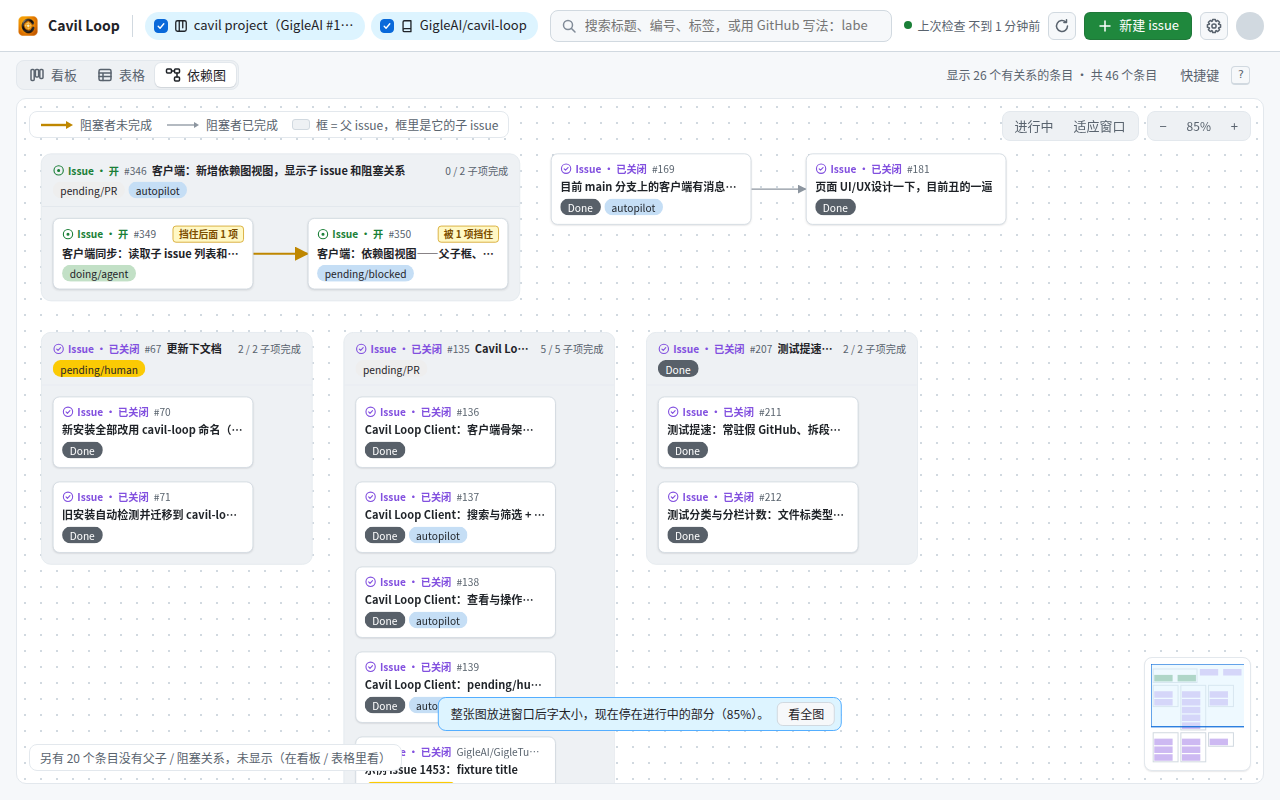
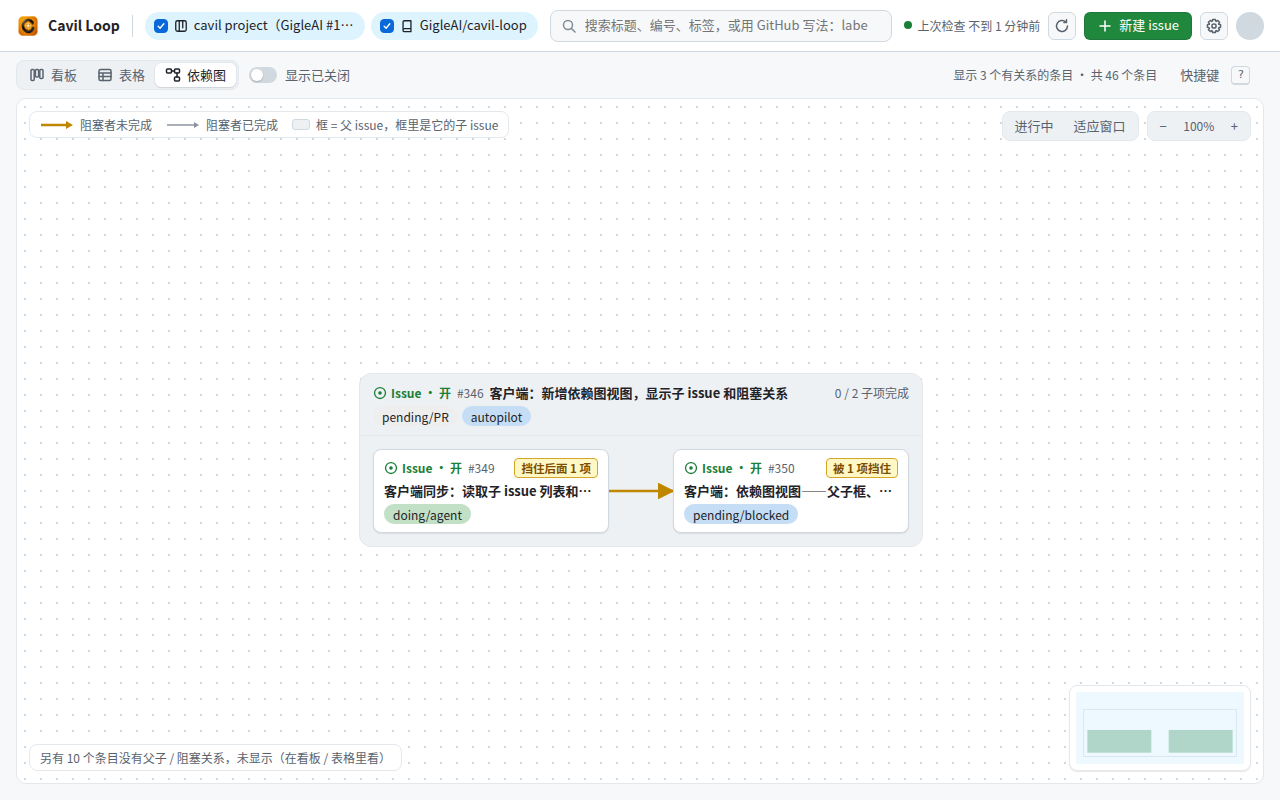
docs(client): user guide describes the "显示已关闭" switch and the read scope; screenshots re-rendered (#464)
Both guides still told people the default search hid finished items and that
clearing the box shows everything; #462 and #464 left the in-progress list.
PR #500 review round 2.

diff --git a/client/src/renderer/BoardView.tsx b/client/src/renderer/BoardView.tsx
@@ -1014,7 +1014,7 @@ export function BoardView({
           title={
             statesInSearch
               ? '搜索框已经指定了开 / 关状态（is:open、is:closed、is:merged），以搜索框为准'
-              : `打开后连已关闭、已合并的条目一起显示。只限已读到的条目：仓库来源读全部开着的和近 14 天更新过的已关闭条目，Project 来源读看板上的全部条目。\n看板、表格、依赖图，以及顶栏四个数点亮时，各记一份。`
+              : `打开后连已关闭、已合并的条目一起显示。只限已读到的条目：仓库来源读全部开着的、近 14 天更新过的和挂着「等人处理的标签」的已关闭条目，Project 来源读看板上的全部条目。\n看板、表格、依赖图，以及顶栏四个数点亮时，各记一份。`
           }
         >
           <input

diff --git a/client/RELEASE_NOTES.md b/client/RELEASE_NOTES.md
@@ -5,7 +5,7 @@
 ### 这一版（0.5）
 
 - **Mac 上切看板 / 表格 / 依赖图改成 ⌃⌘1 / ⌃⌘2 / ⌃⌘3**（GitHub#492）：同时按住 Control 和 Command 再按数字。按钮提示和快捷键一览在 Mac 上只写这三个；以前的 ⌥⌘1/2/3、⌘⇧1/2/3 照样能用，只是不再写出来。Mac 上 ⌃⌘ 一起按住算单独一组键：以前按 ⌃⌘1 会被当成 ⌘1 切到第 1 个标签页，在讨论区里按也一样，现在都不会了；⌘1 … ⌘9、⌘R 照旧。Windows / Linux 不变，仍是 Ctrl+Shift+1/2/3。macOS 上还没在真机上按过（自动测试在 Linux 窗口里模拟 Mac 的按键）。
-- **搜索框默认留空，视图栏加「显示已关闭」开关，每个视图各记一份**（GitHub#464）：新装的客户端搜索框不再预先写 `-Status:done -label:Done`。视图栏「视图设置」左边多一个「显示已关闭」开关，默认关，只显示开着的 issue / PR；打开后连已关闭、已合并的一起显示。开关按视图分别记：看板、表格、依赖图各一份，顶栏每个数点亮时也各一份（包括设置里自己加的数）——「等人处理」连已关闭的也数，它的开关一开始就是开的，点开就能看到已关闭但还挂着 `pending/human` 的条目，想只看开着的就单独关掉它；其他数一开始只列开着的；切回看板后看板的开关保持原样；重开 App 都还在。点亮某个数时搜索框写的是 `label:"pending/human"` 这样的句子，不再带 `is:open`。搜索框里自己写了 `is:open` / `is:closed` / `is:merged` 时以搜索框为准，开关变灰。依赖图关着开关时，开着的条目要用到的已关闭父项、前置、子项仍淡显画出。导入 Project 网页视图时，只用来挡已完成条目的写法（`-status:done`、`-label:done`、`is:open`）不再放进搜索框，其余照导入；升级时搜索框整句只由这几个写法组成的会被清空，原来点亮的数照样亮着，夹着其他写法的不动。注意：原来按 Project 的 Done 列 / `Done` 标签挡，现在按开 / 关状态挡，开着却已拖进 Done 列的条目会重新出现，想继续挡就在搜索框写 `-status:done`。开关只管已读到的条目：仓库来源仍只读全部开着的和近 14 天更新过的。
+- **搜索框默认留空，视图栏加「显示已关闭」开关，每个视图各记一份**（GitHub#464）：新装的客户端搜索框不再预先写 `-Status:done -label:Done`。视图栏「视图设置」左边多一个「显示已关闭」开关，默认关，只显示开着的 issue / PR；打开后连已关闭、已合并的一起显示。开关按视图分别记：看板、表格、依赖图各一份，顶栏每个数点亮时也各一份（包括设置里自己加的数）——「等人处理」连已关闭的也数，它的开关一开始就是开的，点开就能看到已关闭但还挂着 `pending/human` 的条目，想只看开着的就单独关掉它；其他数一开始只列开着的；切回看板后看板的开关保持原样；重开 App 都还在。点亮某个数时搜索框写的是 `label:"pending/human"` 这样的句子，不再带 `is:open`。搜索框里自己写了 `is:open` / `is:closed` / `is:merged` 时以搜索框为准，开关变灰。依赖图关着开关时，开着的条目要用到的已关闭父项、前置、子项仍淡显画出。导入 Project 网页视图时，只用来挡已完成条目的写法（`-status:done`、`-label:done`、`is:open`）不再放进搜索框，其余照导入；升级时搜索框整句只由这几个写法组成的会被清空，原来点亮的数照样亮着，夹着其他写法的不动。注意：原来按 Project 的 Done 列 / `Done` 标签挡，现在按开 / 关状态挡，开着却已拖进 Done 列的条目会重新出现，想继续挡就在搜索框写 `-status:done`。开关只管已读到的条目：仓库来源仍只读全部开着的、近 14 天更新过的和挂着 `pending/human` 的已关闭条目。
 - **单击条目回到右侧浮窗，标签页要的时候才开；没开标签页时不显示标签栏；「正在运行」不再转圈；⌘1…⌘9 切标签页**（GitHub#442）：点看板卡片、表格行、依赖图的框，和标签页上线前一样在看板右侧的浮窗里打开（左边缘可拖宽，点外面、按 Esc 或「收起 ›」收起，回复框里有字时点外面和 Esc 都不收起）；系统通知、刚建好的 issue、提示条里的「打开 / 重试 / 去回复」也一样。按住 ⌘ 点（Windows / Linux 上是 Ctrl）开成标签页并切过去，鼠标中键开成后台标签页；右键卡片 / 表格行 / 依赖图的框弹出菜单：在浮窗打开、在新标签页打开、在后台标签页打开、在 GitHub 网页上看。已经开着标签页的条目单击直接切到那个标签页。浮窗属于首页：切到别的标签页再回来，浮窗还在，没发出的字也在；浮窗正开着的那一条被开成标签页时，字跟着进标签页。一个标签页都没开时整条标签栏不显示，关掉最后一个就消失。标签上「agent 正在处理」的图标换成静止的蓝底小机器人（和「等待人处理」的黄底人像成对），原来的转圈看着像页面还在加载。⌘1 … ⌘9 改成切到第几个标签页（⌘1 是首页，⌘9 是最后一个）；看板 / 表格 / 依赖图挪到 ⌘⇧1 / ⌘⇧2 / ⌘⇧3，Mac 上另有 ⌥⌘1 / ⌥⌘2 / ⌥⌘3——Mac 默认把 ⌘⇧3 留给整屏截图，窗口收不到。首页而浮窗开着时 ⌘W 收起浮窗。详情标签页在前时 ⌘R 重新读这一条（同详情的刷新按钮，讨论区、回复框里按也一样）；首页上 ⌘R 照旧是立即同步。macOS 上还没在真机上按过（自动测试在 Linux 窗口里按的是 Ctrl）。
 - **在等前置的条目，标签页图标是灰底的暂停 ⏸**（GitHub#443）：挂着 `pending/blocked`（在等别的 issue / PR 完成）的条目，以前标签页上显示的是普通的打开图标，看不出它在等；现在换成灰底白色暂停图标，鼠标停上去写「等前置完成」，前置完成、标签摘掉后跟着同步变回原来的图标。认的是设置 →「流程标签」里「等前置的标签」那一格（留空就不显示暂停）；同时挂着「等人处理」时仍显示「等待人处理」。只看标签，不看 GitHub 侧栏的「Blocked by」。
 - **详情改成标签页**（GitHub#397；打开方式、标签栏、图标和数字键已由 GitHub#442 调整，见上一条）：窗口最上面多了一行标签栏。最左边固定的「首页」就是原来的看板 / 表格 / 依赖图；点开的每条 issue / PR 各占一个标签页，详情占满窗口，不再是盖在看板右侧的一块面板。按住 ⌘ 点（或用鼠标中键）在后台打开；点标签上的 ×、按 ⌘W 关闭，⌘⇧] / ⌘⇧[ 切换，Esc 回首页。标签上的图标直接显示这一条的状态——agent 正在处理（转圈）、等待人处理、已关闭、已合并——并跟着同步自己更新；不在眼前的标签页有新动静时亮一个蓝点。没发出的回复跟着标签页，切走再回来还在，关掉有字的标签页前会先问。开着的标签页重开 App 后还在。「正在运行」认的就是设置 →「流程标签」里的「运行中的标签」（默认 `doing/agent`）。

diff --git a/client/README.md b/client/README.md
@@ -283,7 +283,7 @@ npm run dist:mac               # Mac 上：打 .app 和 dmg（要 dmgbuild：pip
 
 ## 搜索、筛选和表格视图（#137）
 
-**默认搜索条件与「显示已关闭」**（GitHub#298 → GitHub#464）：新装的客户端搜索框是空的（`src/shared/viewImport.ts` 的 `DEFAULT_QUERY`）。视图栏「视图设置」左边（依赖图页没有「视图设置」，开关照样在那个位置）有一个「显示已关闭」开关，默认关：关着时列表只留开着的 issue / PR（草稿 PR 算开着），打开后已关闭、已合并的也列出来。开关**每个视图各记一份**：看板、表格、依赖图三种布局各一份（默认关），顶栏每个数点亮时各一份（包括设置里自己加的数，按这一行的 id 记）——某个数亮着时用这个数自己的开关（不论在哪种布局下），开关文字带上「（等人处理）」这样的后缀；没有数亮着时用当前布局的开关。一个数的开关没拨过之前跟着这个数怎么数：「等人处理」连已关闭的也数（GitHub#462），它的开关一开始是开的；其他数只数开着的，开关一开始是关的——所以默认点开列出的正好是数到的那批，之后每个数可以单独拨。都存在本机视图设置里（`showClosed`，最多 64 项），重开 App 还在；存坏的某一项只回到默认，其余照留。「当前用哪一份」只有一个判断（`src/data/flowTally.ts` 的 `showClosedKey`），开关显示和列表过滤都问它。搜索框里自己写了 `is:open` / `is:closed` / `is:merged`（取反的也算，由解析器判断，`src/shared/filter.ts` 的 `statesStated`）时以搜索框为准，开关变灰、悬停说明原因——否则写了 `is:closed` 又关着开关，结果永远为空。依赖图：开关关着时已关闭的条目自己不作为图上的条目出现，但开着的条目要用到的已关闭条目（父项、阻塞它的前置、子项）照旧淡显画出，和搜索框写 `is:open` 时一样；与开着的条目都无关的已关闭条目不出现。开关只决定已读到的条目显示与否，不改读取范围：仓库来源只读全部开着的和近 14 天更新过的，Project 来源读看板上的全部条目。顶栏的数怎么数不受开关影响（「等人处理」含已关闭的，其他只数开着的，见下文）。**老设置**：旧版存的视图设置（没有 `showClosed` 的）读入时迁移一次——搜索框整句只由「挡掉已完成」的写法组成（`-status:done`、`-label:done`、`is:open`，不分大小写，如 `-Status:done -label:Done`、`-label:Done -status:Done`）就清空；正好是旧版四个数的点击查询（`is:open label:"…"` / `is:open no:label`）就换成新写法，那个数照样亮；夹着其他写法的一律不动（`src/shared/viewSettings.ts` 的 `migrateQuery`）。新版存过一次之后不再迁移，手敲的 `is:open` 会原样保留。原默认条件按 Project 的 Status 列 / `Done` 标签挡，新开关按开 / 关状态挡：开着却已拖进 Done 列的条目升级后会露出来，想继续挡就在搜索框写 `-status:done`。
+**默认搜索条件与「显示已关闭」**（GitHub#298 → GitHub#464）：新装的客户端搜索框是空的（`src/shared/viewImport.ts` 的 `DEFAULT_QUERY`）。视图栏「视图设置」左边（依赖图页没有「视图设置」，开关照样在那个位置）有一个「显示已关闭」开关，默认关：关着时列表只留开着的 issue / PR（草稿 PR 算开着），打开后已关闭、已合并的也列出来。开关**每个视图各记一份**：看板、表格、依赖图三种布局各一份（默认关），顶栏每个数点亮时各一份（包括设置里自己加的数，按这一行的 id 记）——某个数亮着时用这个数自己的开关（不论在哪种布局下），开关文字带上「（等人处理）」这样的后缀；没有数亮着时用当前布局的开关。一个数的开关没拨过之前跟着这个数怎么数：「等人处理」连已关闭的也数（GitHub#462），它的开关一开始是开的；其他数只数开着的，开关一开始是关的——所以默认点开列出的正好是数到的那批，之后每个数可以单独拨。都存在本机视图设置里（`showClosed`，最多 64 项），重开 App 还在；存坏的某一项只回到默认，其余照留。「当前用哪一份」只有一个判断（`src/data/flowTally.ts` 的 `showClosedKey`），开关显示和列表过滤都问它。搜索框里自己写了 `is:open` / `is:closed` / `is:merged`（取反的也算，由解析器判断，`src/shared/filter.ts` 的 `statesStated`）时以搜索框为准，开关变灰、悬停说明原因——否则写了 `is:closed` 又关着开关，结果永远为空。依赖图：开关关着时已关闭的条目自己不作为图上的条目出现，但开着的条目要用到的已关闭条目（父项、阻塞它的前置、子项）照旧淡显画出，和搜索框写 `is:open` 时一样；与开着的条目都无关的已关闭条目不出现。开关只决定已读到的条目显示与否，不改读取范围：仓库来源只读全部开着的、近 14 天更新过的和挂着「等人处理的标签」的已关闭条目（GitHub#462），Project 来源读看板上的全部条目。顶栏的数怎么数不受开关影响（「等人处理」含已关闭的，其他只数开着的，见下文）。**老设置**：旧版存的视图设置（没有 `showClosed` 的）读入时迁移一次——搜索框整句只由「挡掉已完成」的写法组成（`-status:done`、`-label:done`、`is:open`，不分大小写，如 `-Status:done -label:Done`、`-label:Done -status:Done`）就清空；正好是旧版四个数的点击查询（`is:open label:"…"` / `is:open no:label`）就换成新写法，那个数照样亮；夹着其他写法的一律不动（`src/shared/viewSettings.ts` 的 `migrateQuery`）。新版存过一次之后不再迁移，手敲的 `is:open` 会原样保留。原默认条件按 Project 的 Status 列 / `Done` 标签挡，新开关按开 / 关状态挡：开着却已拖进 Done 列的条目升级后会露出来，想继续挡就在搜索框写 `-status:done`。
 
 **搜索框**在客户端本地、对缓存数据筛，写法沿用 GitHub 网页（`src/shared/filter.ts`，打字即出结果，停手 0.3 秒后存进视图设置）：
 

diff --git a/docs/client.md b/docs/client.md
@@ -89,8 +89,12 @@ The third view button. Only issues with a relation are drawn (those with a paren
   - plain text matches title, number (`135` / `#135`) and label names, including the middle of a Chinese word;
   - `label:` `status:` `milestone:` `assignee:` `author:` `repo:` `project:` `iteration:` `is:` `no:` `has:` (e.g. `is:open`, `is:pr`, `no:milestone`), a leading `-` excludes, `@me` is you, `@current` / `@next` / `@previous` are iterations;
   - anything not supported (iteration comparisons and ranges, for example) is listed in a yellow bar above the board and ignored — it never turns into "0 results".
-- A new install starts with the search `-Status:done -label:Done` (finished items hidden); clear the box to see everything.
-- **Flow numbers in the top bar**: by default "运行中 / 等 agent / 等人处理 / 未处理" (running / waiting for the agent / waiting for a human / untouched), each counting the open items of the checked sources that carry its label. Click a number to filter on that label; click it again to get your previous search back. Which numbers are shown and what each counts is set in Settings → "顶栏计数" (top-bar numbers).
+- **The "显示已关闭" (show closed) switch**: a new install starts with an empty search box. The switch left of "视图设置" (view settings) on the view bar lists only open issues / PRs while it is off; on, closed and merged ones are listed too. Each view keeps its own: the board, the table and the dependency graph one each (off by default); while a top-bar number is lit, that number's own (the switch says whose, e.g. "显示已关闭（等人处理）"), which starts the way the number counts — on for "等人处理" (waiting for a human), off for the others — and can be switched by itself afterwards. All of them are remembered across restarts.
+  - When the search box itself says `is:open` / `is:closed` / `is:merged`, the search box decides and the switch is greyed out.
+  - In the dependency graph with the switch off, closed parents, blockers and sub-issues that open items need are still drawn, faded; closed items unrelated to any open one are left out.
+  - The switch only covers items already read: a repository source reads every open item, those updated in the last 14 days and the closed ones carrying the "waiting for a human" label; a Project source reads every item on the board.
+  - Items used to be hidden by the Project's Done column / the `Done` label; now they are hidden by open / closed. An item that is open but sits in the Done column shows up; to keep hiding it, write `-status:done` in the search box. When a Project's saved web view is imported, words that only hid finished items (`-status:done`, `-label:done`, `is:open`) are left out of the search box; a search saved by an older version made only of those words is emptied on upgrade.
+- **Flow numbers in the top bar**: by default "运行中 / 等 agent / 等人处理 / 未处理" (running / waiting for the agent / waiting for a human / untouched), each counting the items of the checked sources that carry its label: "等人处理" counts open and closed ones (an autopilot PR's merge closes the issue and leaves `pending/human` on it for a human to look at), the others open ones only. Click a number to filter on that label (`label:"…"`); the list follows that number's own "显示已关闭" switch, so by default it is exactly the items counted. Click it again to get your previous search back. Which numbers are shown and what each counts is set in Settings → "顶栏计数" (top-bar numbers).
 - **View settings**: column / grouping mode, sort (including "Project 里的顺序", the Project's own order), which columns to show, PRs under issues, sub-issues indented. The search text and view settings are remembered across restarts.
 
 ## Details, the floating panel and tabs
@@ -166,7 +170,5 @@ Client issues still open when this guide was written (2026-11-13); the issue pag
 - Chinese / English switching: [#466](https://github.com/GigleAI/cavil-loop/issues/466), in four steps — [#471](https://github.com/GigleAI/cavil-loop/issues/471) (language setting, top bar, settings, sign-in, menu, notifications), [#472](https://github.com/GigleAI/cavil-loop/issues/472) (board, table, graph, details, tabs, new issue), [#473](https://github.com/GigleAI/cavil-loop/issues/473) (local and remote daemon, updates, project settings), [#474](https://github.com/GigleAI/cavil-loop/issues/474) (finishing touches and this guide)
 - "Hand to the agent" and "autopilot" right in the new-issue window, with shortcuts: [#450](https://github.com/GigleAI/cavil-loop/issues/450)
 - A spinner and a result message after "重新读取" / "重新同步" (re-read / re-sync): [#455](https://github.com/GigleAI/cavil-loop/issues/455)
-- "Waiting for a human" also counts closed items still labeled `pending/human`: [#462](https://github.com/GigleAI/cavil-loop/issues/462)
-- Closed issues / PRs hidden by default: [#464](https://github.com/GigleAI/cavil-loop/issues/464)
 - A slimmer top bar, merged into the window's title bar: [#467](https://github.com/GigleAI/cavil-loop/issues/467)
 - Client tests leaving temporary directories behind: [#469](https://github.com/GigleAI/cavil-loop/issues/469) (affects development only, not use)
